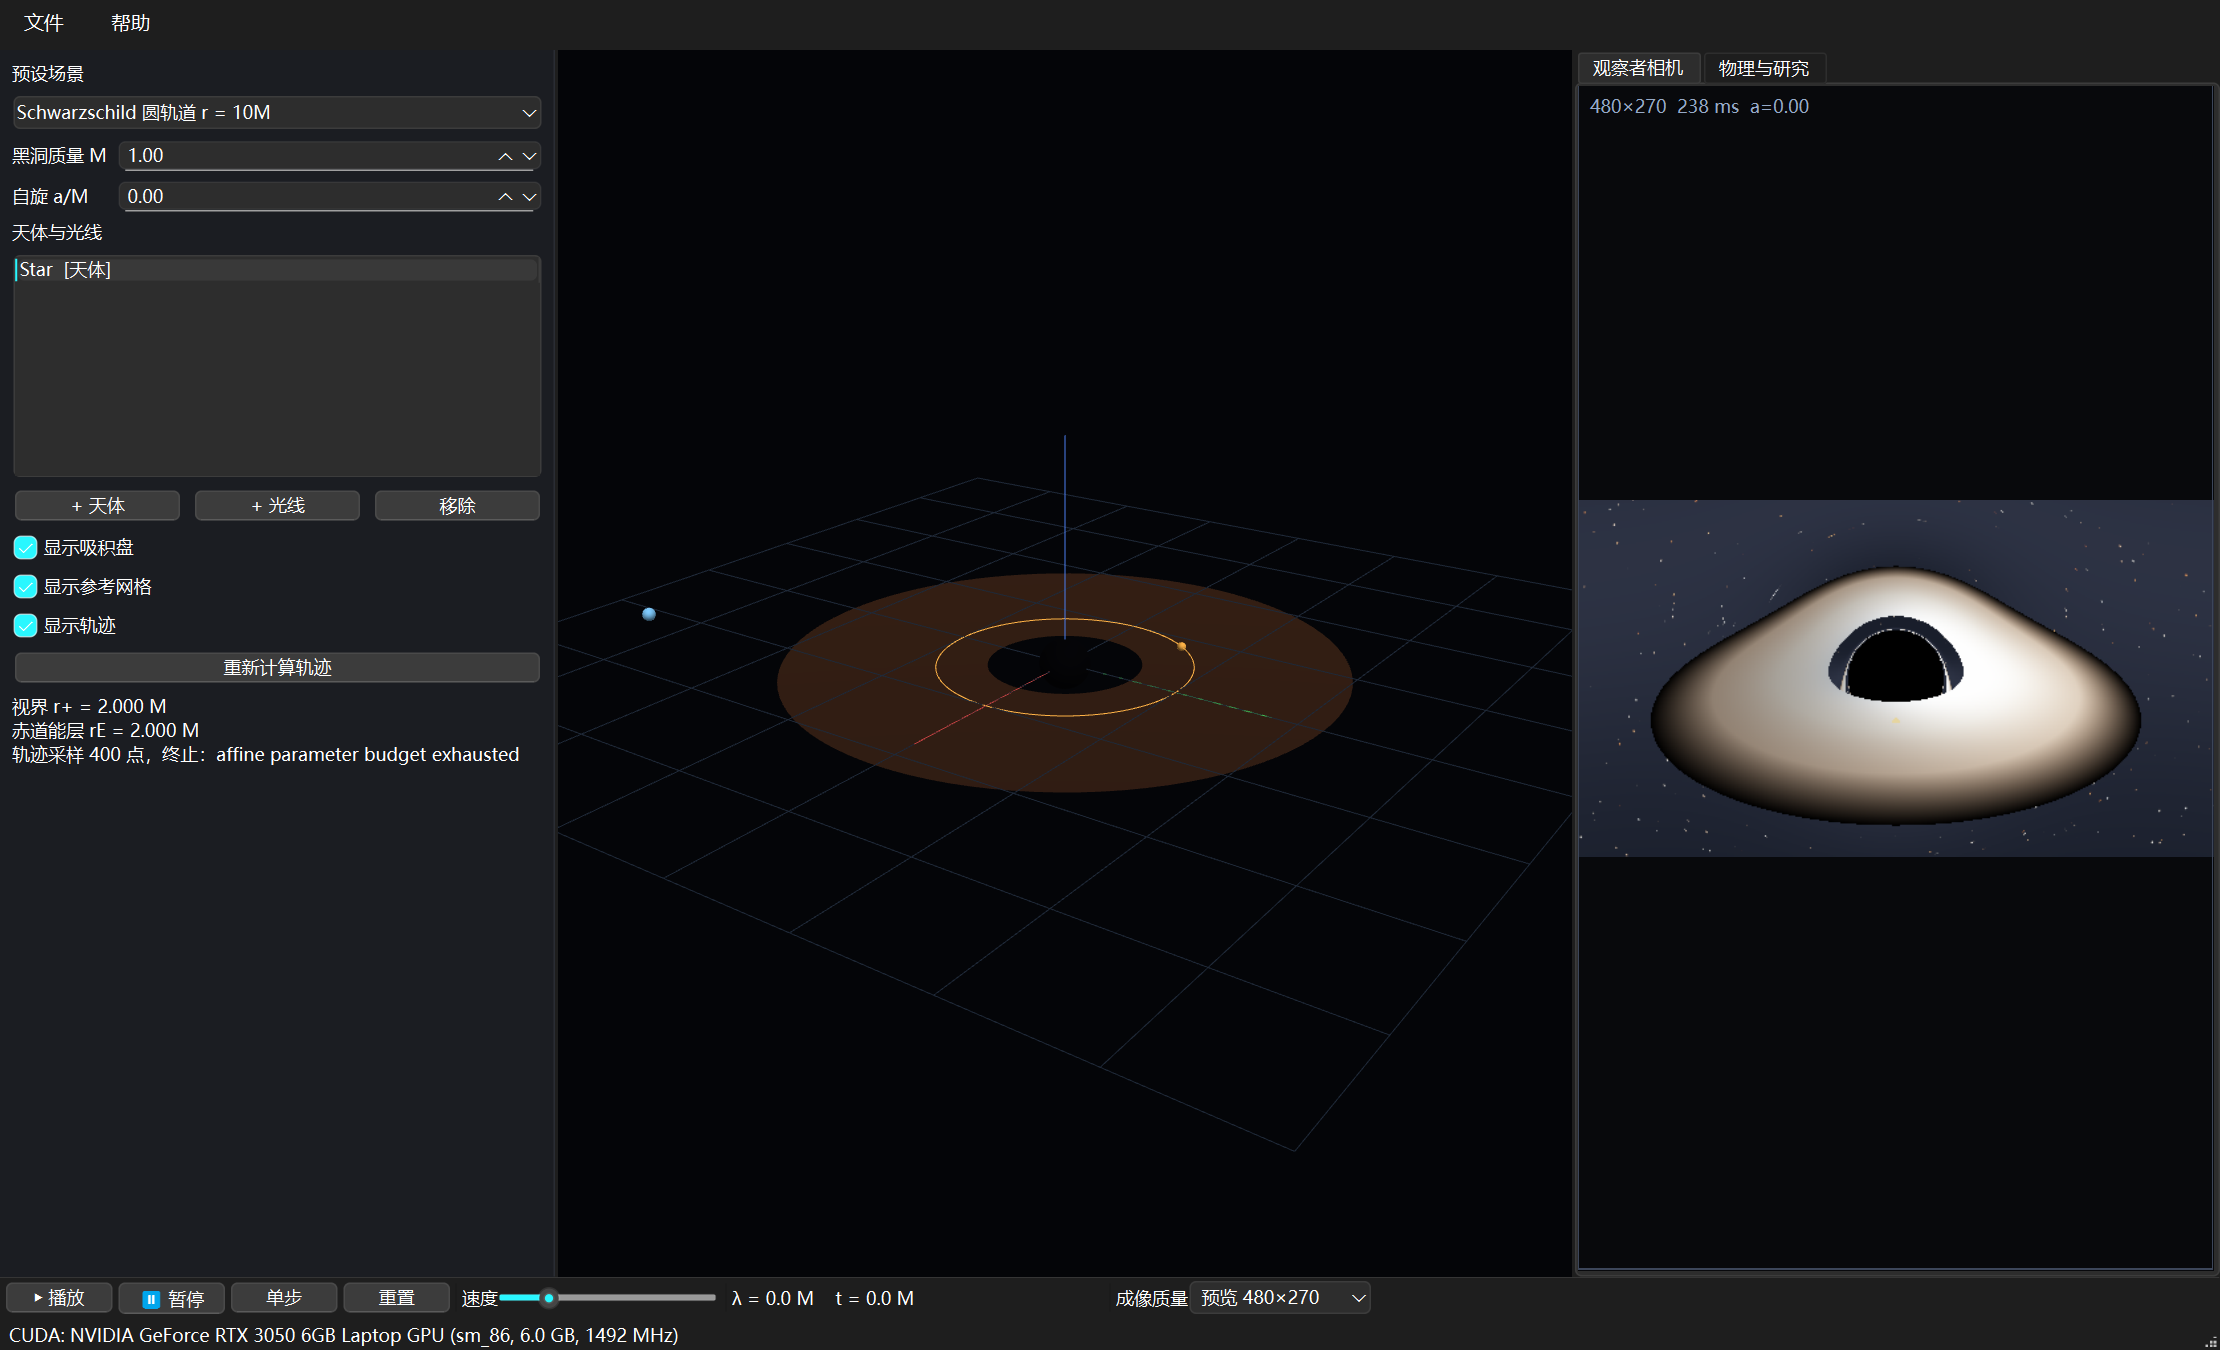
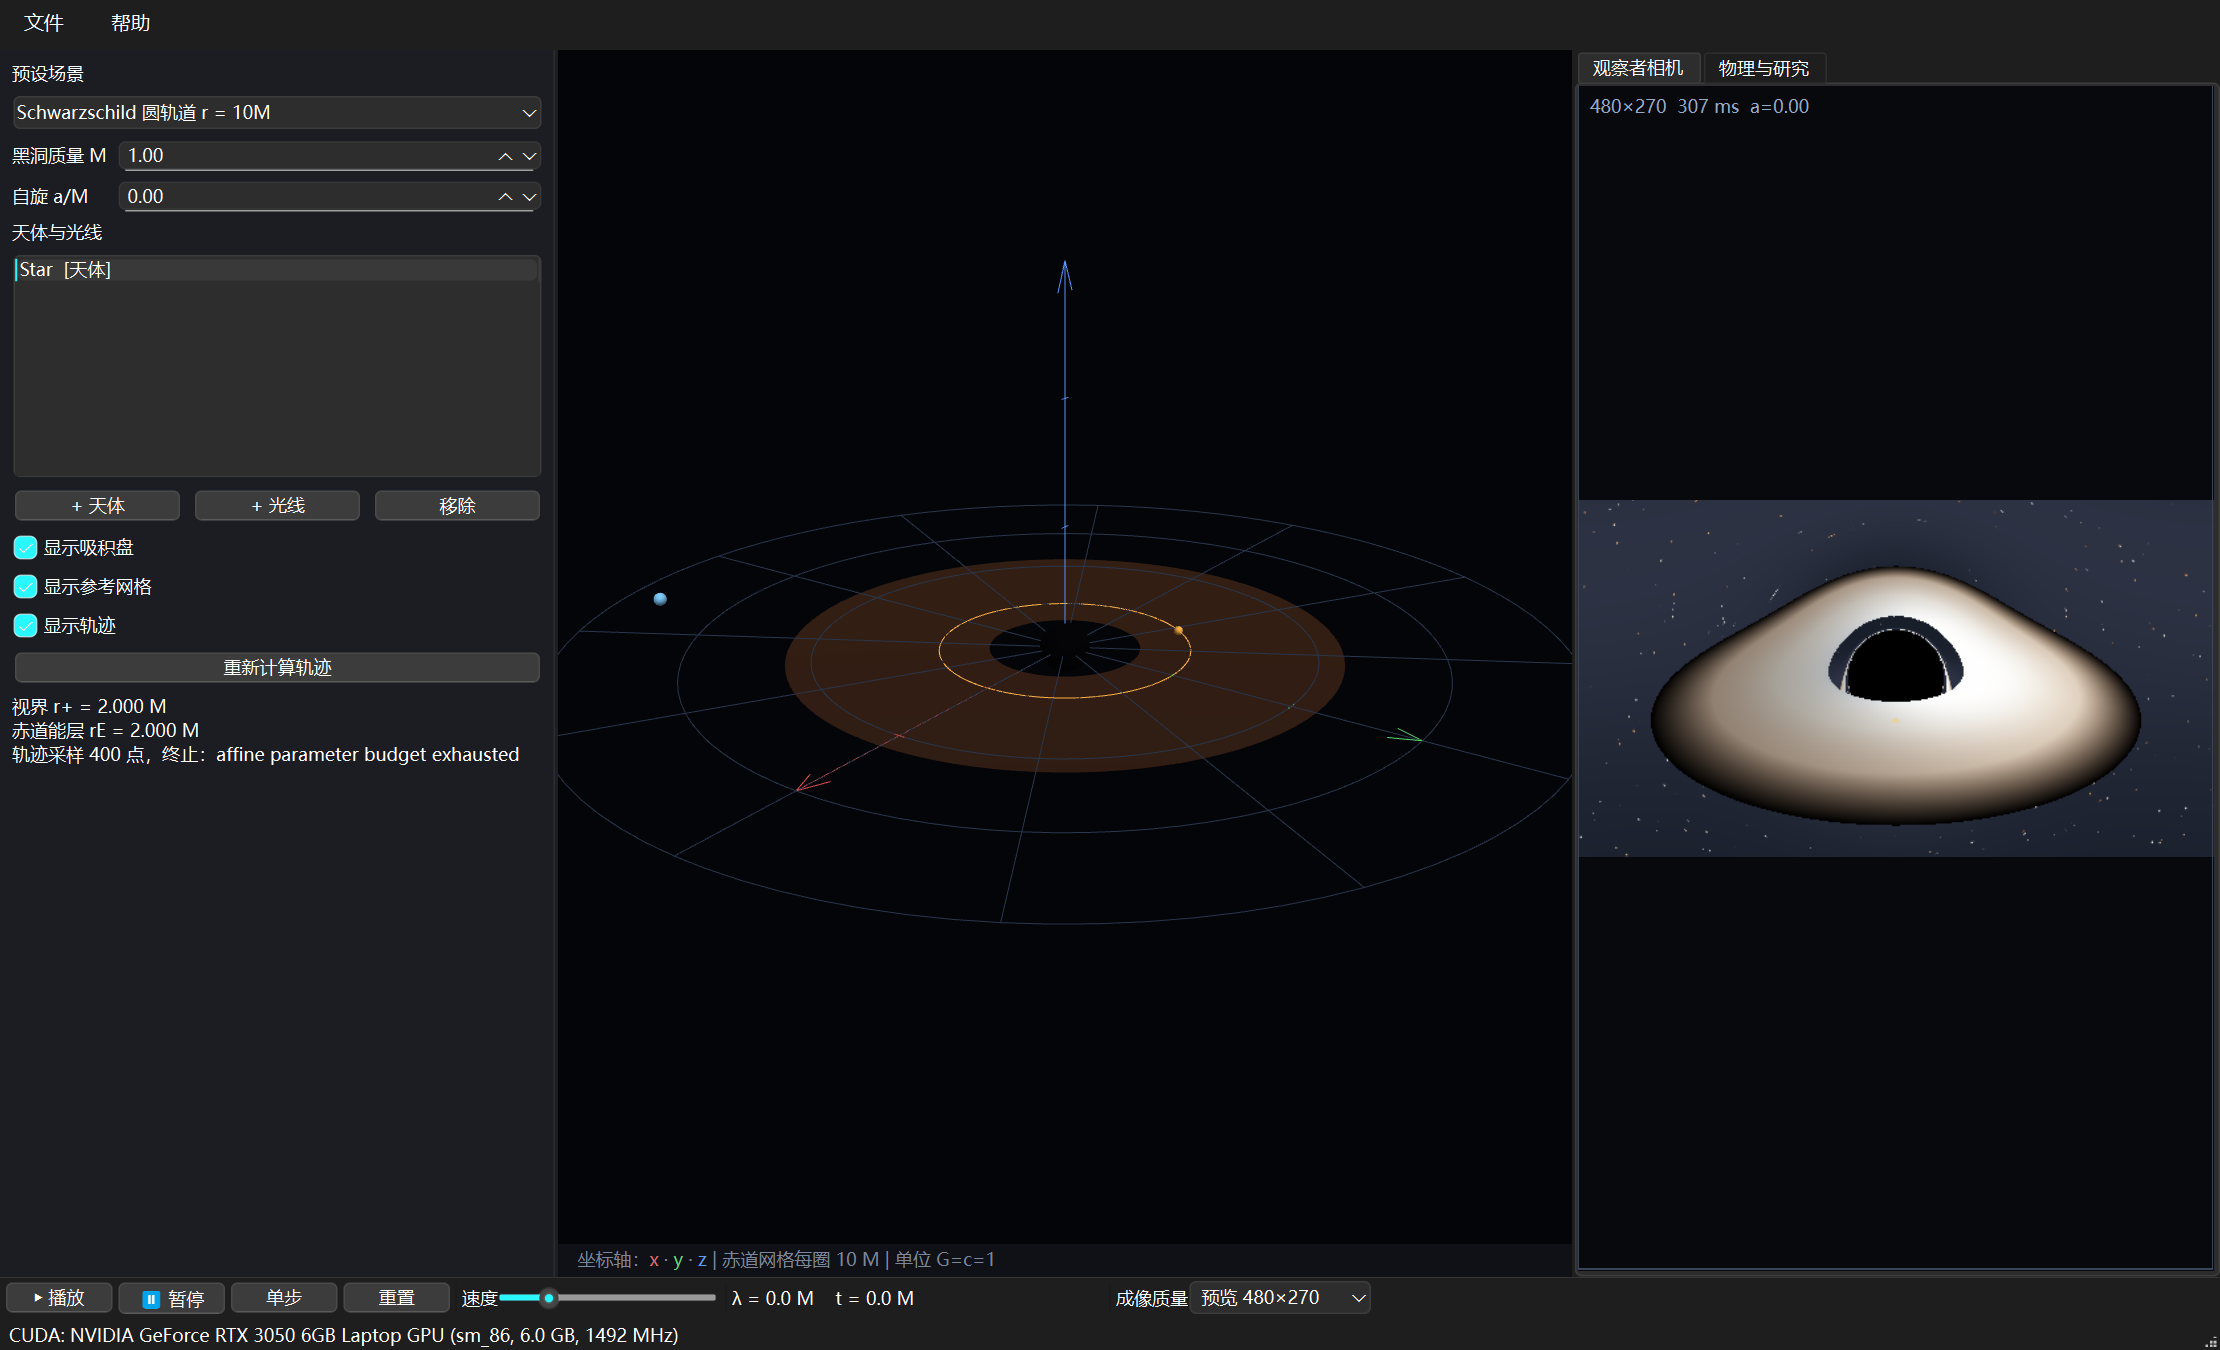
软件: 同步 v0.2.0 —— 自定义初条件对话框与坐标系重画
新增「添加天体 / 添加光子」对话框：
- 位置按 Boyer-Lindquist 坐标 (r, theta, phi) 输入，内部换算成 Kerr-Schild 笛卡尔坐标
- 速度/方向按 ZAMO 局部标架分量给出，带圆轨道/静止/径向内落/切向四个快捷按钮
- 光子可按碰撞参数 b 瞄准，b=0 正对黑洞
- 对话框底部实时积分一条短轨迹，预览 E、Lz、Carter Q、2H 与轨迹命运

三维视图坐标系重画：
- 赤道面改为同心圆网格（每圈 10 M）加 12 条辐条
- 坐标轴加粗、带箭头与 10/20 M 刻度
- 底部图例条标出 x/y/z 颜色与单位
- a=0 时不再绘制与视界重合的能层

同时更新 README 与用户手册到 v0.2.0，并刷新界面与成像截图。

Changed region(s): [[0.3419, 0.3733, 0.6527, 0.5911], [0.3419, 0.9022, 0.373, 0.9644], [0.2797, 0.4356, 0.3108, 0.4667]]

diff --git a/软件/README.md b/软件/README.md
@@ -1,6 +1,6 @@
 # Black Hole Simulator
 
-**黑洞周围天体运动与光传播的交互式三维实验室** · Windows x64 · v0.1.0
+**黑洞周围天体运动与光传播的交互式三维实验室** · Windows x64 · v0.2.0
 
 在固定的广义相对论背景中模拟测试天体与光线的运动，提供三维轨迹演示和观察者成像，
 并为守恒量验证预留了接入接口。它是本项目的可执行交付版本：把"Killing 张量搜索"得到的
@@ -39,6 +39,8 @@ CPU 渲染，三维轨迹播放与守恒量监测不受影响。
 | 黑洞阴影 a = 0.9 | 阴影 + 薄盘 + 透镜星场 |
 
 **三维轨迹视图**：鼠标旋转缩放，显示视界、能层、吸积盘、各天体轨迹与相机标记。
+赤道面画同心圆网格（每圈 10 M）与 12 条辐条，三条坐标轴带箭头和 10/20 M 刻度，
+底部图例标出 x/y/z 的颜色。
 
 **观察者相机**：每个像素反向追踪一条零测地线——落入视界就是黑的，逃到远处采样背景星场，
 穿过薄盘按温度与红移着色。**阴影的边界是算出来的，不是画上去的圆。**
@@ -47,6 +49,18 @@ CPU 渲染，三维轨迹播放与守恒量监测不受影响。
 | --- | --- |
 | ![Kerr 阴影与透镜薄盘](images/kerr-disk.png) | ![阴影与透镜星场](images/shadow-stars.png) |
 | Kerr 阴影与透镜化薄盘（a = 0.9） | 阴影与透镜星场 |
+
+**自定义初条件**：不再只能选预设。点「+ 天体」或「+ 光线」打开对话框，按
+Boyer–Lindquist 坐标给位置、按 ZAMO 局部标架给速度或方向，底部实时积分一条短轨迹，
+显示 $E$、$L_z$、Carter $Q$、$2H$ 和这条轨迹的命运（落入视界 / 逃逸 / 保持束缚）。
+
+| | |
+| --- | --- |
+| ![添加测试天体对话框](images/add-body-dialog.png) | |
+| 按 BL 坐标放置、按 ZAMO 速度给初条件，底部实时预览轨迹命运 | |
+
+光子还可以按碰撞参数 $b$ 瞄准：$b=0$ 正对黑洞，$b$ 越接近 $3\sqrt3\,M$ 越擦边。
+把 $b$ 从 5 调到 6 就能看到"捕获"变成"逃逸"——这是检验阴影边界最直接的用法。
 
 **物理与研究面板**：实时显示选中天体的 $E=-p_t$、$L_z$、Carter $Q$ 与 $2H$，
 并绘制它们相对 $\lambda$ 的归一化漂移曲线。曲线整体平移或单调漂移说明是数值误差，
@@ -100,6 +114,20 @@ Schwarzschild 圆轨道 $r=10M$、Kerr 倾斜轨道的 Carter 常数守恒（相
 - 吸积盘为几何薄盘示意，不是辐射转移计算
 - 相机不能进入 $1.35\,r_+$ 以内；成像是单帧快照，没有运动模糊
 - 双黑洞、带电粒子、偏振平行移动、Maxwell 波动模块均未实现
+
+## 版本记录
+
+**v0.2.0**（当前）
+
+- 新增「添加天体 / 添加光子」对话框：按 Boyer–Lindquist 坐标定位、按 ZAMO 局部标架给速度或方向
+- 对话框内实时预览：守恒量 + 轨迹命运，不用先确定再返回
+- 光子支持按碰撞参数 $b$ 瞄准
+- 三维坐标系重画：赤道同心圆网格、12 条辐条、带箭头与刻度的坐标轴、图例条
+- 修复 $a=0$ 时能层与视界重合导致的遮挡
+
+**v0.1.0**
+
+- 首个可运行版本：Kerr/Schwarzschild 背景、测地线积分、GPU 观察者成像、守恒量监测
 
 ## 文档
 

diff --git a/软件/USER_GUIDE.md b/软件/USER_GUIDE.md
@@ -1,6 +1,6 @@
 # Black Hole Simulator — 使用说明
 
-> 版本 0.1.0（B 档核心版本）· Windows x64 · 需要 NVIDIA 显卡（CUDA）
+> 版本 0.2.0 · Windows x64 · 需要 NVIDIA 显卡（CUDA）
 
 ---
 
@@ -10,7 +10,7 @@
 |---|---|
 | 安装版 | 双击 `BlackHoleSimulator_Setup.exe` → 安装 → 从开始菜单或桌面快捷方式启动 |
 | 免安装版 | 直接双击 `dist\BlackHoleSimulator.exe`（整个 `dist` 目录可以整体拷走） |
-| 命令行渲染 | `dist\bh_cli.exe --preset shadow --width 800 --height 450 --out a.png` |
+| 命令行渲染 | `bh_cli.exe --preset shadow --width 800 --height 450 --out a.png` |
 
 启动后状态栏会显示检测到的 GPU，例如
 `CUDA: NVIDIA GeForce RTX 3050 6GB Laptop GPU (sm_86, 6.0 GB, 1492 MHz)`。
@@ -63,15 +63,40 @@
 ### 3.4 三个按钮
 | 按钮 | 作用 |
 |---|---|
-| **+ 天体** | 在 r=12M 赤道面加一个按圆轨道速度运动的测试粒子 |
-| **+ 光线** | 在 (-30, 0, 6) 处加一条沿 +x 方向的光子 |
+| **+ 天体** | 打开「添加测试天体」对话框，可自定义位置与初速度 |
+| **+ 光线** | 打开「添加光子」对话框，可按碰撞参数瞄准或手动指定方向 |
 | **移除** | 删除当前选中的那一条 |
+
+#### 「添加测试天体」对话框
+
+| 字段 | 含义 |
+|---|---|
+| 名称 | 列表里显示的名字 |
+| 半径 r / 极角 θ / 方位角 φ | **Boyer–Lindquist 坐标**，长度单位 M；内部换算成 Kerr-Schild 笛卡尔坐标 |
+| v_r / v_θ / v_φ | **ZAMO 局部标架**下的速度分量，单位 c，沿 r̂ / θ̂ / φ̂；要求 `v_r²+v_θ²+v_φ² < 1` |
+| 质量 m | 影响 `2H = −m²` 的期望值 |
+| 圆轨道 / 静止 / 径向内落 / 切向 0.5c | 一键填入常用初条件（圆轨道用赤道顺行速度） |
+
+对话框底部的预览区会**立即积分一条短轨迹**，显示 `r`、`E`、`L_z`、`Carter Q`、`2H`
+以及这条轨迹的命运（落入视界 / 逃逸 / 保持束缚），不用先点确定再返回去看。
+
+#### 「添加光子」对话框
+
+位置同样是 BL 坐标，方向有两种给法：
+
+| 方式 | 说明 |
+|---|---|
+| **瞄准（按碰撞参数 b）** | 从当前位置指向距黑洞 `b` 的偏移点；`b = 0` 表示正对黑洞。改完点「按 b 重新瞄准」 |
+| **手动方向分量** | 直接给局部标架下的 `n_r, n_θ, n_φ`，内部会归一化 |
+
+预览区同样显示守恒量与命运。例如 `b = 5` 在 Schwarzschild 下会被捕获（临界值是 `3√3 ≈ 5.196`），
+`b = 6` 则会逃逸——这是检验阴影边界最直接的用法。
 
 ### 3.5 三个复选框
 | 选项 | 作用 |
 |---|---|
 | **显示吸积盘** | 三维视图和相机视图里的薄盘。关掉后相机视图只剩阴影 + 星场 |
-| **显示参考网格** | 三维视图的 z=0 网格和红/绿/蓝三条坐标轴（x/y/z） |
+| **显示参考网格** | 三维视图的赤道同心圆（每圈 10 M）、12 条辐条和带箭头的 x/y/z 坐标轴 |
 | **显示轨迹** | 三维视图里的轨迹线 |
 
 ### 3.6 「重新计算轨迹」与信息区
